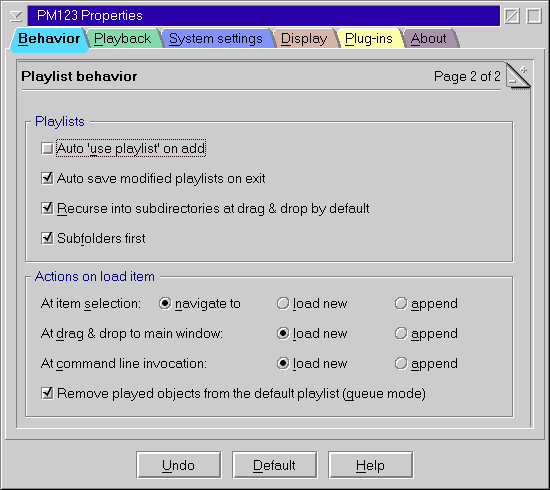
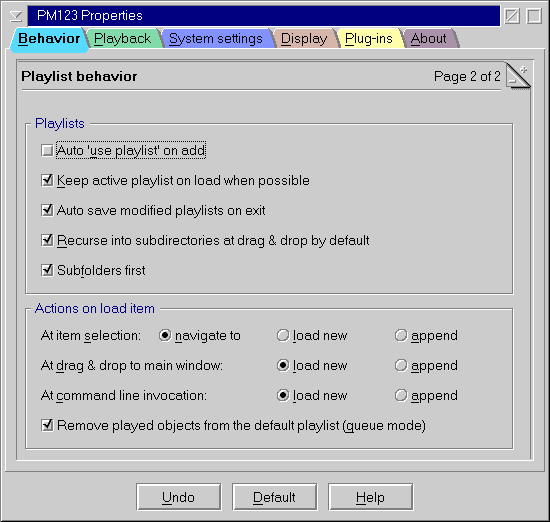
Kepp current playlist, fixed alternation lists.

Changed region(s): [[0.0, 0.2143, 0.9891, 0.9796], [0.0, 0.0, 0.9891, 0.1837]]

diff --git a/doc/manual/remote/options.html b/doc/manual/remote/options.html
@@ -66,7 +66,7 @@ before playing. <br>
     <tr>
       <td valign="top"><tt>discardseed</tt>[<tt>=</tt>{<tt>on</tt>|<tt>off</tt>}]
       <small><sup><a href="options.html#note1">(1.)</a></sup></small></td>
-      <td valign="top">Discard shuffle sequence if shuffle is disabled.<br>
+      <td valign="top">Discard shuffle sequence if shuffle is disabled.
       </td>
     </tr>
     <tr>
@@ -99,6 +99,12 @@ mode.</td>
     <tr>
       <td><tt>font</tt>[<tt>=</tt>{<tt>1</tt>|<tt>2</tt>|<var>size<tt>.</tt>font</var>}]</td>
       <td>Previous setting or empty string on error.</td>
+    </tr>
+    <tr>
+      <td valign="top"><tt>keeproot</tt>[<tt>=</tt>{<tt>on</tt>|<tt>off</tt>}]
+      <small><sup><a href="options.html#note1">(1.)</a></sup></small></td>
+      <td valign="top">Keep the current playlist if a sub item of it is
+loaded.</td>
     </tr>
     <tr>
       <td valign="top"><tt>pipe</tt>[<tt>=</tt><var>pipe_name</var>]</td>

diff --git a/doc/manual/remote/playback.html b/doc/manual/remote/playback.html
@@ -171,12 +171,7 @@ blank = error, invalid request</td>
     <tr>
       <td><tt><a name="current"></a>current </tt>[<tt>song</tt>|<tt>root</tt>]</td>
       <td>Query the current song or the currently loaded
-playlist. If only one song is curren<a href="playlist.html#pl_leave"><tt>pl
-leave</tt></a>
-- leave a (nested) playlist<a href="playlist.html#pl_leave"><tt>pl leave</tt></a>
-- leave a (nested) playlist<a href="playlist.html#pl_leave"><tt>pl leave</tt></a>
-- leave a (nested) playlist<a href="playlist.html#pl_leave"><tt>pl leave</tt></a>
-- leave a (nested) playlisttly loaded into the player <tt>current
+playlist. If only one song is currently loaded into the player <tt>current
 root</tt>
 will also return the song.<br>
 By default <tt>current</tt> returns the current song.</td>

diff --git a/doc/manual/settings2.html b/doc/manual/settings2.html
@@ -14,6 +14,10 @@
 <dl>
   <dt><b>Auto 'use playlist' on add</b> </dt>
   <dd>Automatically loads a playlist if items are appended to it.</dd>
+  <dt><b>Keep active playlist on load when possible</b></dt>
+  <dd>When this option is set PM123 tries to keep the current playlist
+if a new item is loaded that is part of the current playlist. In this
+case only a navigation to the loaded entry takes place.</dd>
   <dt><b>Auto save modified playlists on exit</b></dt>
   <dd>If there are playlists in memory that have not yet been saved and
 they are savable, then this is done silently on program exit. Note that

diff --git a/doc/manual/remote/meta.html b/doc/manual/remote/meta.html
@@ -157,7 +157,7 @@ string</a>)<tt><var></var></tt><br>
   <tt>PREGAP=<var>2.0 </var></tt>(seconds)<br>
   <tt>POSTGAP=<var>1.0 </var></tt>(seconds)<tt><var></var></tt><br>
   <tt>GAIN=<var>+2 </var></tt>(dB)<br>
-  <tt>OPTIONS= </tt><tt><var></var></tt></blockquote>
+  <tt>OPTIONS=<var>alt shuffle</var> </tt><tt><var></var></tt></blockquote>
 <p><tt><var></var></tt>The list is terminated by an empty line. All of
 the above tags are optional and in arbitrary order.</p>
 <p>The <tt>OPTIONS</tt> attribute contains a space delimited list of:

diff --git a/doc/common/history.html b/doc/common/history.html
@@ -17,6 +17,8 @@ wavplay plug-in.</li>
   <li>Fixed crash while decoding empty .TYPE EAs.</li>
   <li>Work around for Lxlite last modification time problem on samba
 shares.</li>
+  <li>Option to keep current playlist on load.</li>
+  <li>Fixed handling of alternation lusts.</li>
 </ul>
 <blockquote>
   <h4>OGG123</h4>
@@ -29,6 +31,7 @@ shares.</li>
 </blockquote>
 <ul>
   <li>Fixed reading of WarpVision and internet playlists.</li>
+  <li>Save playlist options.</li>
 </ul>
 <h3>PM123 1.41 (alpha 1)</h3>
 <ul>

diff --git a/src/pm123/core/songiterator.cpp b/src/pm123/core/songiterator.cpp
@@ -303,34 +303,43 @@ bool SongIterator::PrevNextCore(Job& job, bool direction)
   const vector<PlayableInstance>& callstack = GetCallstack();
   size_t depth = callstack.size();
   ASSERT(depth);
-  APlayable* list = depth > 1 ? callstack[depth-2] : Root;
+  --depth;
+  APlayable* list = depth ? callstack[depth-1] : Root;
+
 
   // Only play one item of an alternation list, and always the (logical) first.
-  if (list->GetInfo().attr->ploptions & PLO_ALTERNATION)
-  { direction = true;
-    APlayable* cur = callstack[depth-1];
-    if (!cur)
-      goto leave;
-    if (job.RequestInfo(*cur, IF_Tech))
-      return false;
-    if ((cur->GetInfo().tech->attributes & TATTR_INVALID) == 0)
-    {leave:
-      NavigateTo(NULL);
+  bool alternation = list->GetInfo().attr->ploptions & PLO_ALTERNATION;
+  if (alternation)
+  { if (callstack[depth])
+    { NavigateTo(NULL);
       return true;
+    }
+    direction = true;
+  }
+ next_try:
+  // Optimization: ignore shuffle option for very small playlists.
+  if ((unsigned)list->GetInfo().obj->num_items > 1 && IsShuffle())
+  { // Prev/next in shuffle mode
+    // Shuffle cache lookup
+    ShuffleWorker& sw = EnsureShuffleWorker(depth);
+    // Navigate
+    int_ptr<PlayableInstance> pi = callstack[depth];
+    pi = direction ? sw.Next(pi) : sw.Prev(pi);
+    NavigateTo(pi);
+  } else if (!Location::PrevNextCore(job, direction))
+    return false;
+
+  if (alternation)
+  { // check whether item is valid.
+    PlayableInstance* pi = callstack[depth];
+    if (pi)
+    { if (job.RequestInfo(*pi, IF_Tech))
+        return false;
+      if (pi->GetInfo().tech->attributes & TATTR_INVALID)
+        goto next_try; // no, try next one
     }
   }
 
-  // Optimization: ignore shuffle option for very small playlists.
-  if ((unsigned)list->GetInfo().obj->num_items <= 1 || !IsShuffle())
-    return Location::PrevNextCore(job, direction);
-  // Prev/next in shuffle mode
-  DEBUGLOG(("SongIterator(%p)::PrevNextCore(%u)\n", this, direction));
-  // Shuffle cache lookup
-  ShuffleWorker& sw = EnsureShuffleWorker(--depth);
-  // Navigate
-  PlayableInstance* pi = callstack[depth];
-  pi = direction ? sw.Next(pi) : sw.Prev(pi);
-  NavigateTo(pi);
   return true;
 }
 
@@ -556,7 +565,7 @@ InfoFlags SongIterator::CalcOffsetCacheEntry(Job& job, unsigned level, InfoFlags
 }
 
 InfoFlags SongIterator::AddFrontAggregate(AggregateInfo& ai, InfoFlags what, Job& job)
-{ DEBUGLOG(("SongIterator(%p)::AddFrontAggregate(, %x, &{%x,})\n", this, what, job.Pri));
+{ DEBUGLOG(("SongIterator(%p)::AddFrontAggregate(, %x, {%x,})\n", this, what, job.Pri));
   ASSERT((what & ~IF_Aggreg) == 0);
   InfoFlags whatnotok = IF_None;
   if (what)
@@ -572,7 +581,7 @@ InfoFlags SongIterator::AddFrontAggregate(AggregateInfo& ai, InfoFlags what, Job
 }
 
 InfoFlags SongIterator::AddBackAggregate(AggregateInfo& ai, InfoFlags what, Job& job)
-{ DEBUGLOG(("SongIterator(%p)::AddBackAggregate(, %x, &{%x,})\n", this, what, job.Pri));
+{ DEBUGLOG(("SongIterator(%p)::AddBackAggregate(, %x, {%x,})\n", this, what, job.Pri));
   ASSERT((what & ~IF_Aggreg) == 0);
   InfoFlags whatnotok = IF_None;
   if (what)

diff --git a/src/pm123/core/location.cpp b/src/pm123/core/location.cpp
@@ -169,7 +169,7 @@ bool Location::PrevNextCore(Job& job, bool direction)
 }
 
 Location::NavigationResult Location::NavigateCountCore(Job& job, bool dir, TECH_ATTRIBUTES stopat, unsigned mindepth, unsigned maxdepth)
-{ DEBUGLOG(("Location(%p)::NavigateCountCore({%u,}, %u, %x, %u, %u) - %u\n", this, job.Pri, dir, stopat, mindepth, maxdepth, Callstack.size()));
+{ DEBUGLOG(("Location(%p)::NavigateCountCore({%x,}, %u, %x, %u, %u) - %u\n", this, job.Pri, dir, stopat, mindepth, maxdepth, Callstack.size()));
   ASSERT(stopat);
   ASSERT(Callstack.size() >= mindepth && maxdepth >= mindepth && maxdepth >= Callstack.size());
 
@@ -264,7 +264,7 @@ Location::NavigationResult Location::NavigateUp(unsigned count)
 }
 
 Location::NavigationResult Location::NavigateInto(Job& job)
-{ DEBUGLOG(("Location(%p)::NavigateInto({%u,})\n", job.Pri));
+{ DEBUGLOG(("Location(%p)::NavigateInto({%x,})\n", job.Pri));
   APlayable* cur = GetCurrent();
   if (!cur)
     return "Can not enter NULL.";
@@ -313,7 +313,7 @@ Location::NavigationResult Location::NavigateTo(const Location& target)
 }
 
 Location::NavigationResult Location::Navigate(Job& job, APlayable* target, int index, unsigned mindepth, unsigned maxdepth)
-{ DEBUGLOG(("Location(%p)::Navigate({%u,}, %s, %i, %i, %i)\n", this,
+{ DEBUGLOG(("Location(%p)::Navigate({%x,}, %s, %i, %i, %i)\n", this,
     job.Pri, target->DebugName().cdata(), index, mindepth, maxdepth));
   ASSERT(Callstack.size() >= mindepth && maxdepth >= mindepth);
 
@@ -352,7 +352,7 @@ Location::NavigationResult Location::Navigate(Job& job, APlayable* target, int i
   return ret;
 }
 Location::NavigationResult Location::Navigate(Job& job, const xstring& url, int index, unsigned mindepth, unsigned maxdepth)
-{ DEBUGLOG(("Location(%p)::Navigate({%u,}, %s, %i, %i, %i)\n", this,
+{ DEBUGLOG(("Location(%p)::Navigate({%x,}, %s, %i, %i, %i)\n", this,
     job.Pri, url.cdata(), index, mindepth, maxdepth));
   ASSERT(Callstack.size() >= mindepth && maxdepth >= mindepth);
 
@@ -424,7 +424,7 @@ Location::NavigationResult Location::Navigate(Job& job, const xstring& url, int 
 }
 
 Location::NavigationResult Location::NavigateTime(Job& job, PM123_TIME offset, int mindepth, bool absolute)
-{ DEBUGLOG(("Location(%p)::NavigateTime({%u,}, %f, %i, %u) - %u\n", this,
+{ DEBUGLOG(("Location(%p)::NavigateTime({%x,}, %f, %i, %u) - %u\n", this,
     job.Pri, offset, mindepth, absolute, Callstack.size()));
   
   if (Root == NULL)
@@ -545,7 +545,7 @@ xstring Location::Serialize(bool withpos, char delimiter) const
 }
 
 Location::NavigationResult Location::Deserialize(Job& job, const char*& str)
-{ DEBUGLOG(("Location(%p)::Deserialize({%u, }, %s) - %s\n", this, job.Pri, str, Serialize(true).cdata()));
+{ DEBUGLOG(("Location(%p)::Deserialize({%x, }, %s) - %s\n", this, job.Pri, str, Serialize(true).cdata()));
   NavigationResult ret;
   int flat = 0;
   size_t len = 0;

diff --git a/src/pm123/gui/gui.cpp b/src/pm123/gui/gui.cpp
@@ -315,7 +315,7 @@ MRESULT GUIImp::GUIDlgProc(ULONG msg, MPARAM mp1, MPARAM mp2)
       if (cfg.itemaction == CFG_ACTION_NAVTO)
         GUIImp::PostCtrlCommand(Ctrl::MkJump(new Location(target), true));
       else
-      { LoadHelper lhp(cfg.playonload*LoadHelper::LoadPlay | (cfg.itemaction == CFG_ACTION_QUEUE)*LoadHelper::LoadAppend);
+      { LoadHelper lhp(cfg.playonload*LoadHelper::LoadPlay|LoadHelper::LoadKeepRoot | (cfg.itemaction == CFG_ACTION_QUEUE)*LoadHelper::LoadAppend);
         lhp.AddItem(*target.GetCurrent());
         Load(lhp);
       }
@@ -745,7 +745,8 @@ MRESULT GUIImp::GUIDlgProc(ULONG msg, MPARAM mp1, MPARAM mp2)
       if ( cmd >= IDM_M_LOADFILE && cmd < IDM_M_LOADFILE + sizeof LoadWizards / sizeof *LoadWizards
         && LoadWizards[cmd-IDM_M_LOADFILE] )
       { // TODO: create temporary playlist
-        LoadHelper lh(Cfg::Get().playonload*LoadHelper::LoadPlay | LoadHelper::LoadRecall);
+        const volatile amp_cfg& cfg = Cfg::Get();
+        LoadHelper lh(cfg.playonload*LoadHelper::LoadPlay | cfg.keeproot*LoadHelper::LoadKeepRoot | LoadHelper::LoadRecall);
         if ((*LoadWizards[cmd-IDM_M_LOADFILE])(HPlayer, "Load%s", &GUI_LoadFileCallback, &lh) == 0)
           PostCtrlCommand(lh.ToCommand());
         return 0;
@@ -1834,7 +1835,7 @@ MRESULT GUIImp::DragOver(DRAGINFO* pdinfo_)
 
 GUIImp::HandleDrop::HandleDrop(DRAGINFO* di, HWND hwnd)
 : HandleDragTransfers(di, hwnd)
-, Loader(Cfg::Get().playonload*LoadHelper::LoadPlay | (di->usOperation == DO_LINK)*LoadHelper::LoadAppend)
+, Loader(Cfg::Get().playonload*LoadHelper::LoadPlay | Cfg::Get().keeproot*LoadHelper::LoadKeepRoot | (di->usOperation == DO_LINK)*LoadHelper::LoadAppend)
 {}
 
 GUIImp::HandleDrop::~HandleDrop()

diff --git a/src/pm123/gui/properties.cpp b/src/pm123/gui/properties.cpp
@@ -250,6 +250,7 @@ MRESULT PropertyDialog::Settings2Page::DlgProc(ULONG msg, MPARAM mp1, MPARAM mp2
     { const amp_cfg& cfg = *(const amp_cfg*)PVOIDFROMMP(mp1);
       // gcc parser error required + prefixes
       CheckBox(+GetCtrl(CB_AUTOUSEPL)).CheckState(cfg.autouse);
+      CheckBox(+GetCtrl(CB_KEEPROOT)).CheckState(cfg.keeproot);
       CheckBox(+GetCtrl(CB_AUTOSAVEPL)).CheckState(cfg.autosave);
       CheckBox(+GetCtrl(CB_RECURSEDND)).CheckState(cfg.recurse_dnd);
       CheckBox(+GetCtrl(CB_FOLDERSFIRST)).CheckState(cfg.folders_first);
@@ -263,6 +264,7 @@ MRESULT PropertyDialog::Settings2Page::DlgProc(ULONG msg, MPARAM mp1, MPARAM mp2
    case CFG_SAVE:
     { amp_cfg& cfg = *(amp_cfg*)PVOIDFROMMP(mp1);
       cfg.autouse = CheckBox(GetCtrl(CB_AUTOUSEPL)).CheckState();
+      cfg.keeproot = CheckBox(GetCtrl(CB_KEEPROOT)).CheckState();
       cfg.autosave = CheckBox(GetCtrl(CB_AUTOSAVEPL)).CheckState();
       cfg.recurse_dnd = CheckBox(GetCtrl(CB_RECURSEDND)).CheckState();
       cfg.folders_first = CheckBox(GetCtrl(CB_FOLDERSFIRST)).CheckState();

diff --git a/src/pm123/remote/commandprocessor.cpp b/src/pm123/remote/commandprocessor.cpp
@@ -670,7 +670,8 @@ void CommandProcessor::XEnqueue()
 }
 
 void CommandProcessor::XInvoke()
-{ LoadHelper lh(Cfg::Get().playonload*LoadHelper::LoadPlay);
+{ const volatile amp_cfg& cfg = Cfg::Get();
+  LoadHelper lh(cfg.playonload*LoadHelper::LoadPlay | cfg.keeproot*LoadHelper::LoadKeepRoot);
   Reply.appendd(!FillLoadHelper(lh, Request) ? Ctrl::RC_BadArg : lh.SendCommand());
 }
 
@@ -1550,6 +1551,7 @@ const strmap<16,CommandProcessor::Option> CommandProcessor::OptionMap[] =
 , { "floatontop",      &amp_cfg::floatontop     }
 , { "foldersfirst",    &amp_cfg::folders_first  }
 , { "font",            &CommandProcessor::DoFontOption }
+, { "keeproot",        &amp_cfg::keeproot       }
 , { "pipe",            &amp_cfg::pipe_name      }
 , { "pldefaultaction", &amp_cfg::itemaction     }
 , { "playlistwrap",    &amp_cfg::autoturnaround }

diff --git a/src/pm123/engine/loadhelper.h b/src/pm123/engine/loadhelper.h
@@ -41,11 +41,11 @@
 class LoadHelper
 {public:
   enum Options
-  { LoadDefault      = 0,
-    LoadPlay         = 0x01, // Start Playing when completed
-    LoadRecall       = 0x02, // Add item to the MRU-List if it is only one
-    LoadAppend       = 0x04, // Always append to the default playlist
-    //LoadKeepPlaylist = 0x08, // Play a playable object. If A playlist containing this item is loaded, the item is activated only.
+  { LoadDefault  = 0,
+    LoadPlay     = 0x01,///< Start Playing when completed
+    LoadRecall   = 0x02,///< Add item to the MRU-List if it is only one
+    LoadAppend   = 0x04,///< Always append to the default playlist
+    LoadKeepRoot = 0x08,///< Play a playable object. If A playlist containing this item is loaded, the item is activated only.
   };
  protected:
   const Options         Opt;

diff --git a/src/pm123/engine/loadhelper.cpp b/src/pm123/engine/loadhelper.cpp
@@ -85,7 +85,7 @@ Ctrl::ControlCommand* LoadHelper::ToCommand()
     ps = &pl;
   }
 
-  Ctrl::ControlCommand* cmd = Ctrl::MkLoad(ps, true);
+  Ctrl::ControlCommand* cmd = Ctrl::MkLoad(ps, (Opt & LoadKeepRoot) != 0);
   Ctrl::ControlCommand* tail = cmd;
   if (need_jump && startat->GetIndex() > 1)
   { Location* startloc = new Location(&ps->GetPlayable());
@@ -94,7 +94,7 @@ Ctrl::ControlCommand* LoadHelper::ToCommand()
     tail = tail->Link = Ctrl::MkJump(startloc, false);
     tail->Callback = &LoadHelper::JumpCompleted;
   }
-  tail = tail->Link = Ctrl::MkSkip(0, true);
+  tail = tail->Link = Ctrl::MkSkip(0, (Opt & LoadKeepRoot) != 0);
   if (Opt & LoadPlay)
     // Start playback immediately after loading has completed
     tail = tail->Link = Ctrl::MkPlayStop(Ctrl::Op_Set);
